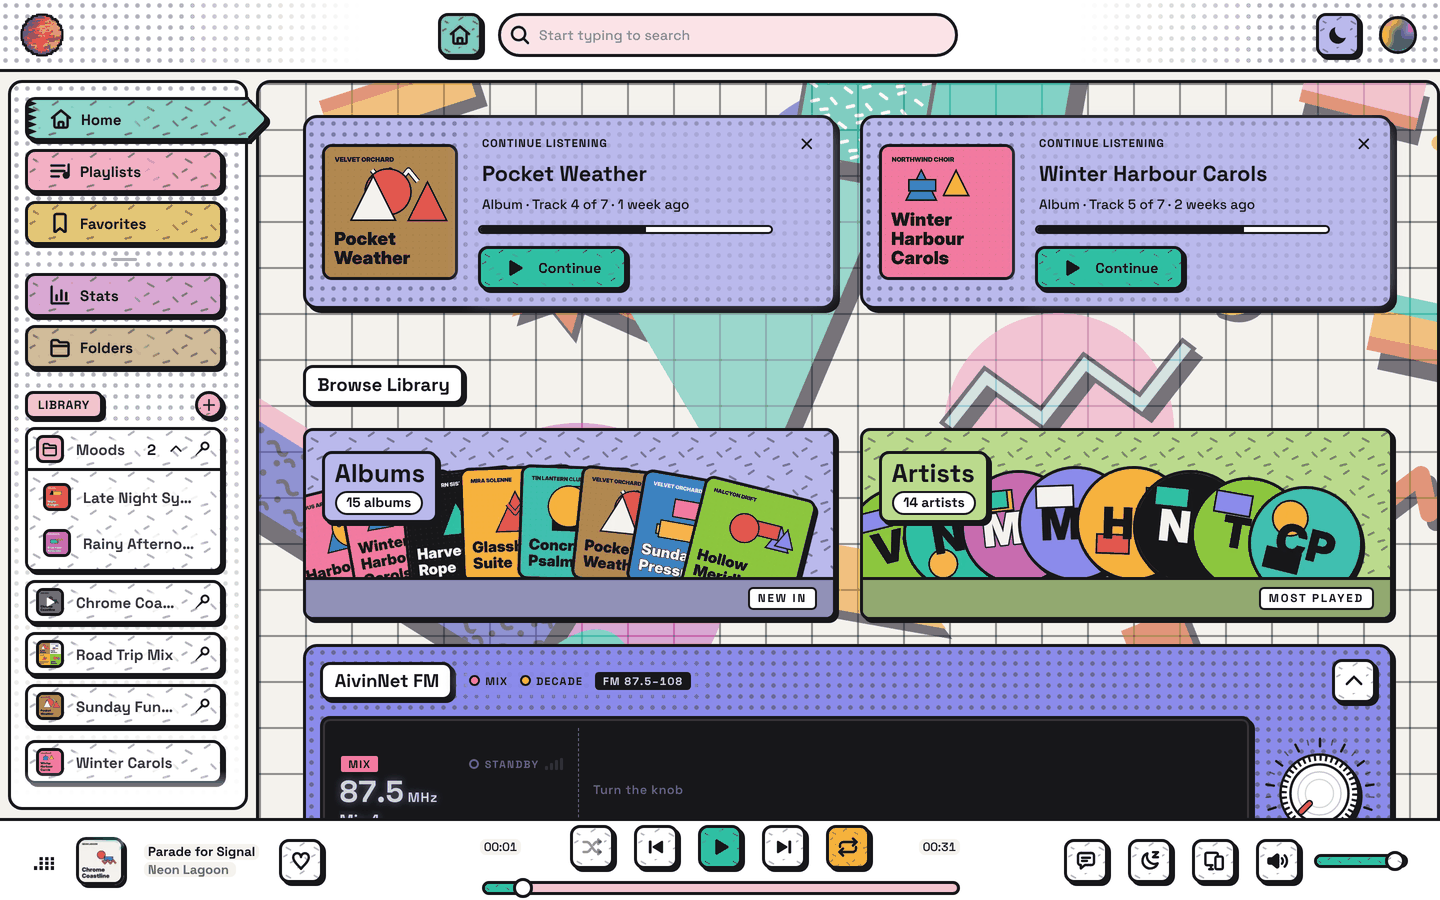
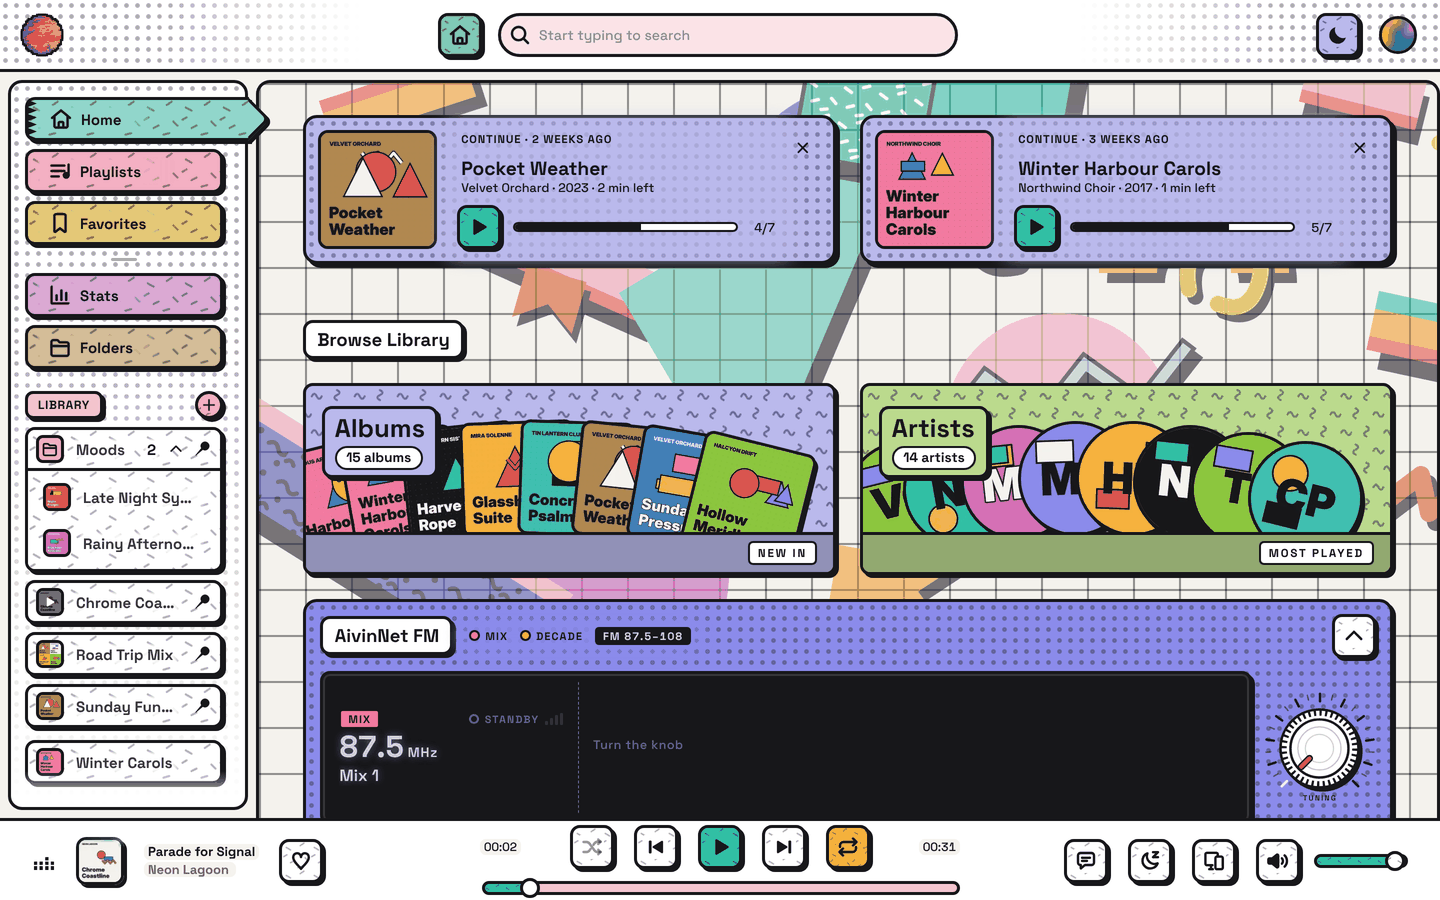
docs(release): README and screenshots for 2026.11.12
README: Quick play and the shortcut overview, rating from the bar heart.
Screenshots retaken from master: the phone navigation, the Continue bar,
the row captions and the detail heads changed since 2026.11.11.

scripts/demo/screenshots.js set dark mode by clicking .theme-toggle on
the album page; the phone no longer has that button there (#916, #922),
so the phone-dark shot timed out and the Christmas shot never ran. The
theme now goes into the persisted settings with the radio keys.

Claude-Session: https://claude.ai/code/session_01MjKC1nG7y3H6QY8vhRBa3n

diff --git a/scripts/demo/screenshots.js b/scripts/demo/screenshots.js
@@ -44,18 +44,20 @@ async function open(browser, { phone = false, dark = false, date = PLAIN_DATE } 
     const login = await context.request.post(`${BASE}/auth/login`, { data: { username: 'admin', password: PASSWORD } })
     if (!login.ok()) throw new Error(`login failed: ${login.status()}`)
     // AivinNet FM is off until switched on (Settings → Home, per device); the shots show it,
-    // open on the desktop and folded to its strip on the phone. The settings store is
-    // persisted under "settings" and hydrated by $patch, so these two keys are enough.
-    await context.addInitScript((open) => {
+    // open on the desktop and folded to its strip on the phone. The app keeps its own
+    // light/dark setting (the browser's colour scheme does not reach it), and the phone has
+    // no theme button in its top bar any more, so the theme is set here too. The settings
+    // store is persisted under "settings" and hydrated by $patch, so these keys are enough.
+    await context.addInitScript(({ open, theme }) => {
         try {
             const stored = JSON.parse(localStorage.getItem('settings') || '{}')
             if (stored.show_radio === undefined) {
-                localStorage.setItem('settings', JSON.stringify({ ...stored, show_radio: true, radio_open: open }))
+                localStorage.setItem('settings', JSON.stringify({ ...stored, show_radio: true, radio_open: open, theme }))
             }
         } catch {
-            // no storage: the shots go without the radio
+            // no storage: the shots go without the radio, in light
         }
-    }, !phone)
+    }, { open: !phone, theme: dark ? 'dark' : 'light' })
     const page = await context.newPage()
     await page.clock.setFixedTime(new Date(date))
     return { context, page }
@@ -76,17 +78,12 @@ async function snap(page, name) {
 }
 
 // Start the album from its header, let it play a moment, pause: the bar shows a track.
-async function loadTrack(page, ids, dark) {
+async function loadTrack(page, ids) {
     await go(page, `/albums/${ids.album}`)
     await page.locator('.header-actions button').first().click()
     await page.waitForTimeout(2500)
     await page.keyboard.press('Space')
     await page.waitForTimeout(500)
-    // The app keeps its own light/dark setting; the browser's colour scheme does not reach it.
-    if (dark) {
-        await page.locator('.theme-toggle').first().click()
-        await page.waitForTimeout(400)
-    }
 }
 
 ;(async () => {
@@ -95,7 +92,7 @@ async function loadTrack(page, ids, dark) {
     {
         const { context, page } = await open(browser)
         ids = await lookup(context.request)
-        await loadTrack(page, ids, false)
+        await loadTrack(page, ids)
         await go(page, '/'); await snap(page, 'home')
         await go(page, `/albums/${ids.album}`); await snap(page, 'album')
         await go(page, `/playlist/${ids.playlist}`); await snap(page, 'playlist')
@@ -109,14 +106,14 @@ async function loadTrack(page, ids, dark) {
     }
     {
         const { context, page } = await open(browser, { dark: true })
-        await loadTrack(page, ids, true)
+        await loadTrack(page, ids)
         await go(page, '/'); await snap(page, 'home-dark')
         await go(page, `/albums/${ids.album}`); await snap(page, 'album-dark')
         await context.close()
     }
     for (const dark of [false, true]) {
         const { context, page } = await open(browser, { phone: true, dark })
-        await loadTrack(page, ids, dark)
+        await loadTrack(page, ids)
         const sfx = dark ? '-dark' : ''
         await go(page, '/'); await snap(page, `phone-home${sfx}`)
         if (!dark) {
@@ -127,7 +124,7 @@ async function loadTrack(page, ids, dark) {
     }
     {
         const { context, page } = await open(browser, { date: CHRISTMAS_DATE })
-        await loadTrack(page, ids, false)
+        await loadTrack(page, ids)
         await go(page, '/', 4000); await snap(page, 'christmas')
         await context.close()
     }

diff --git a/README.md b/README.md
@@ -52,6 +52,8 @@ covers, synthetic audio. `scripts/demo/` rebuilds it and takes the pictures.</su
   discography by type and collect guest appearances. A folder browser walks the
   tree as it is on disk, for when the tags are not the truth.
 - Search over tracks, albums and artists, and an A–Z band for browsing.
+  **Quick play** (Ctrl/Cmd+P) starts a song by typing part of its title, and
+  `?` lists every keyboard shortcut.
 - Fix tags in the app, give an album a cover (upload, search online, or write it
   into the files), and give an artist a picture.
 - New music arrives with **Scan for new music** in the profile menu; AivinNet
@@ -71,8 +73,9 @@ covers, synthetic audio. `scripts/demo/` rebuilds it and takes the pictures.</su
   clicks on the logo hand you a find from your own library.
 
 **Ratings**
-- Rate tracks from 1 to 5 stars: in Now Playing, from a song's menu, or by
-  tapping the star in a song list. Each person rates for themselves.
+- Rate tracks from 1 to 5 stars: in Now Playing, from a song's menu, by
+  tapping the star in a song list, or with a long-press on the heart in the
+  player bar. Each person rates for themselves.
 - Your 4- and 5-star songs feed *Your top rated*. Mixes and stations play the
   songs you rated high more often, and never pick the ones you rated 1.
 - A smart playlist rule, *My rating*, fills itself from your stars.
